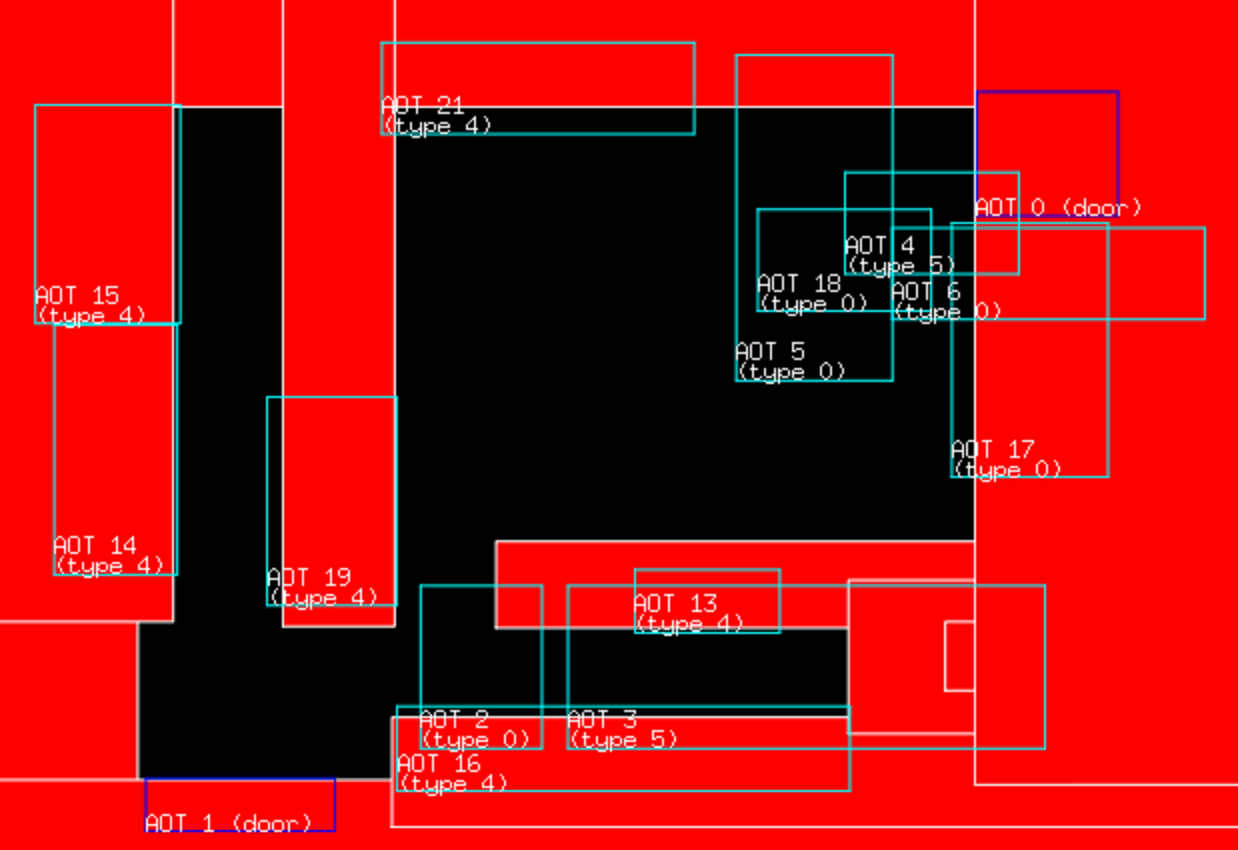
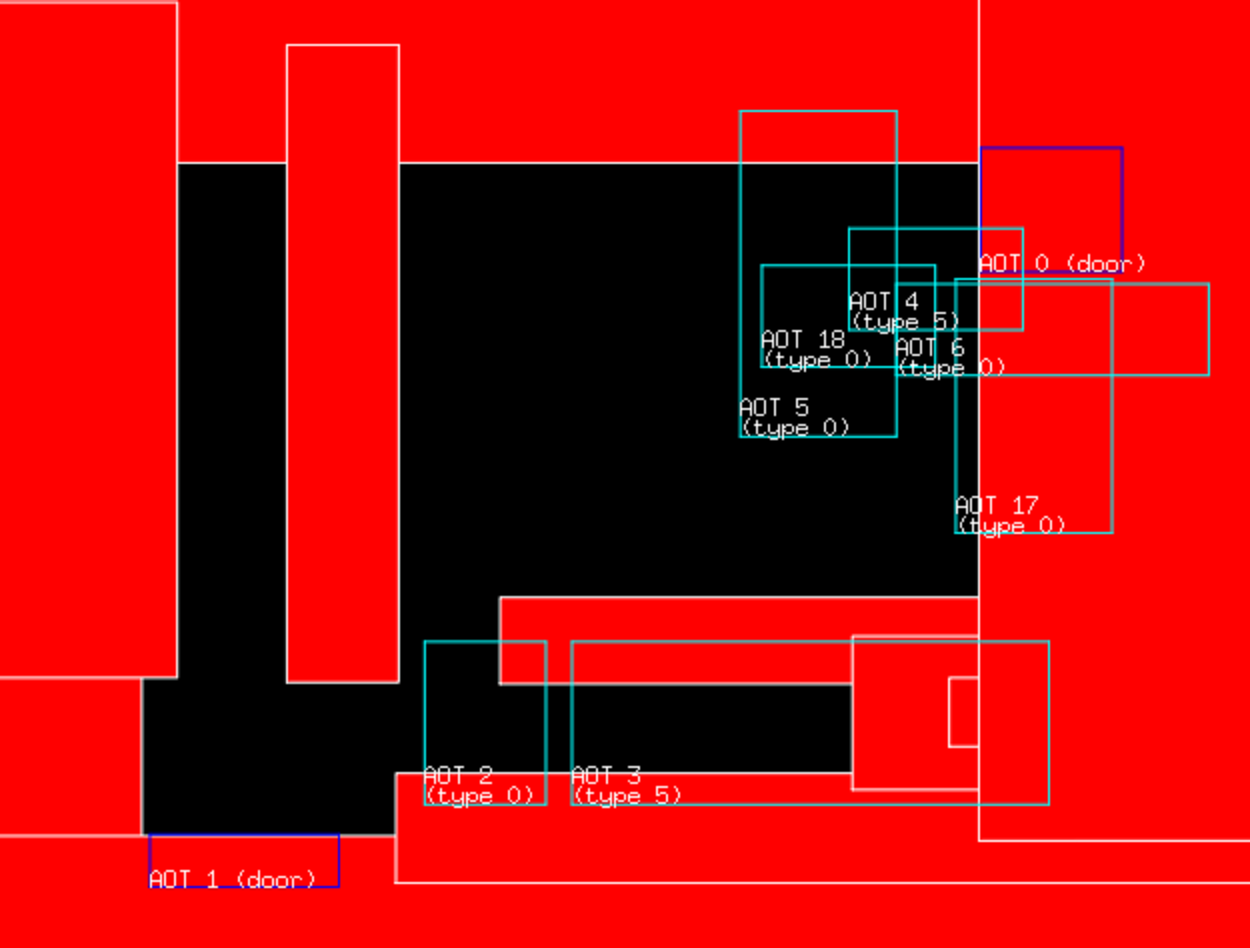
Added more images to breakdown room 1010

Changed region(s): [[0.0, 0.0, 1.0, 0.9788]]

diff --git a/_posts/2023-04-20-kendo-gen-shop.md b/_posts/2023-04-20-kendo-gen-shop.md
@@ -34,26 +34,60 @@ The initial script "init.scd" will run. AOT 0 and 1 will be initialized for the 
 <img src="https://raw.githubusercontent.com/OpenBiohazard2/openbiohazard2.github.io/main/assets/img/kendo-gun-shop-room1010-doors.png" />
 </div>
 
-The red blocks are the collision entities, which would be used for the walls and counters. The light blue rectangle represents the trigger area and the blue area represents the door trigger. Leon will enter Kendo's Gun Shop at AOT 0 on the top right and exit AOT 1 on the bottom right.
+The red blocks are the collision entities, which would be used for the walls and counters. The light blue rectangle represents the trigger area and the blue area represents the door trigger. Leon will enter Kendo's Gun Shop at AOT 0 on the top right and exit AOT 1 on the bottom left.
 
 ### Main script
 
 ScriptThread 0 will run starting function 0. Functions 2 and 4 are called indirectly using gosub().
 
-1. AOT 13-19 and 21 will be initialized with type 4. The purpose is to display messages when the player uses the action button next to a location.
-2. AOT 8 and 9 will be initialized as items with type 2. Objects will be initialized with id 1 and 2. These objects correspond to handgun ammo.
-3. AOT 2 and 4 will be initialized with type 0. They won't have any effect now, but will be activated later.
-5. AOT 3, 5, 6 will be initialized with type 5 as trigger areas. Stepping on these areas will execute script code.
-6. AOT 0 was reset from a door AOT and assigned type 5. AOT 0 corresponds to the entrance area and leaving through the entrance will execute script code.
-7. Dynamic entity 0 initialized using SceEmSet() with id 72 (Kendo). Dynamic entities 1, 2, 3, 4 initialized using SceEmSet() with id 31 (zombies)
-8. AOT 11 initialized as an item with type 2, but the item is unknown.
+<div style="display:inline-block;">
+<img src="https://raw.githubusercontent.com/OpenBiohazard2/openbiohazard2.github.io/main/assets/img/kendo-gun-shop-function0.png" />
+</div>
+
+<br>
+
+<div style="display:inline-block;">
+<img src="https://raw.githubusercontent.com/OpenBiohazard2/openbiohazard2.github.io/main/assets/img/kendo-gun-shop-function2.png" />
+</div>
+
+#### Type 2: Items
+
+<div style="display:inline-block;">
+<img src="https://raw.githubusercontent.com/OpenBiohazard2/openbiohazard2.github.io/main/assets/img/kendo-gun-shop-room1010-items.png" />
+</div>
+
+AOT 8 and 9 will be initialized as items with type 2. Objects will be initialized with id 1 and 2. These objects correspond to handgun ammo. AOT 11 initialized as an item with type 2, which is the shotgun, but won't be available for the player until after Kendo dies.
+
+#### Type 4: Display messages
+
+<div style="display:inline-block;">
+<img src="https://raw.githubusercontent.com/OpenBiohazard2/openbiohazard2.github.io/main/assets/img/kendo-gun-shop-room1010-messages.png" />
+</div>
+
+AOT 13-19 and 21 will be initialized with type 4. The purpose is to display messages when the player uses the action button next to a location.
+
+#### Type 0 and Type 5: Triggers
+
+<div style="display:inline-block;">
+<img src="https://raw.githubusercontent.com/OpenBiohazard2/openbiohazard2.github.io/main/assets/img/kendo-gun-shop-room1010-step1-triggers.png" />
+</div>
+
+AOT 2 and 4 will be initialized with type 0. They won't have any effect now, but will be activated later. AOT 3, 5, 6 will be initialized with type 5 as trigger areas. Stepping on these areas will execute script code.
+
+AOT 0 was reset from a door AOT and assigned type 5. AOT 0 corresponds to the entrance area and leaving through the entrance will execute script code.
+
+#### Entities
+
+Dynamic entity 0 initialized using SceEmSet() with id 72 (Kendo). Dynamic entities 1, 2, 3, 4 initialized using SceEmSet() with id 31 (zombies) 
+
+#### Summary
 
 At end of running ScriptThread 0, we have initialized the following:
 1. AOT initialized (AOT 0-6, 8, 9, 11, 13-19, 21)
 2. Static objects 1, 2, which correspond to ammo
 3. Dynamic entities 0-4. Entity 0 corresponds to Kendo and entities 1-4 correspond to zombies.
 
-The image below shows what is initialized:
+The image below shows what is initialized. Items were excluded from the image because the text overlapped with the other boxes:
 
 <div style="display:inline-block;">
 <img src="https://raw.githubusercontent.com/OpenBiohazard2/openbiohazard2.github.io/main/assets/img/kendo-gun-shop-room1010-step1.png" />
@@ -74,6 +108,12 @@ The cutscene will trigger when you try to leave the store through the entrance (
 In Resident Evil 2, the game uses prerendered backgrounds and each room will have multiple cameras. Based on the zone the player is in, the game will determine which camera and prerendered background to show. During the cutscene, the camera and prerendered background will automatically be changed to show different views of a scene. There are sleep calls to control the timing of each camera view. At the end of the cutscene, the camera will focus back on the player to make it easy for the player to know when they can regain control of their character.
 
 ScriptThread 0 runs starting function 22.
+
+The image below shows only cameras 0, 5, 10, 11, which are part of the cutscene. The room has other cameras, but they aren't shown for clarity.
+
+<div style="display:inline-block;">
+<img src="https://raw.githubusercontent.com/OpenBiohazard2/openbiohazard2.github.io/main/assets/img/kendo-gun-shop-cutscene-cameras.png" />
+</div>
 
 1. AOT 0, 5, 6 get reset to type 0. These areas previously were used to trigger the cutscene, but setting these areas to type 0 ensures the cutscene is only triggered once.
 2. Camera view changed to camera 10. Zooms out from player and shows both Leon and Kendo.
